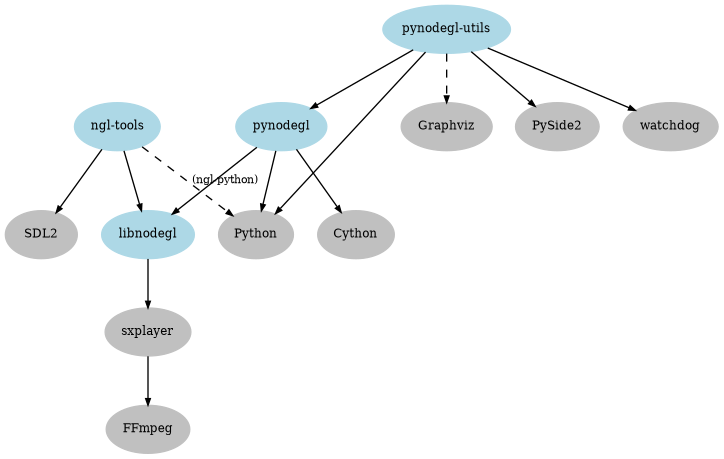
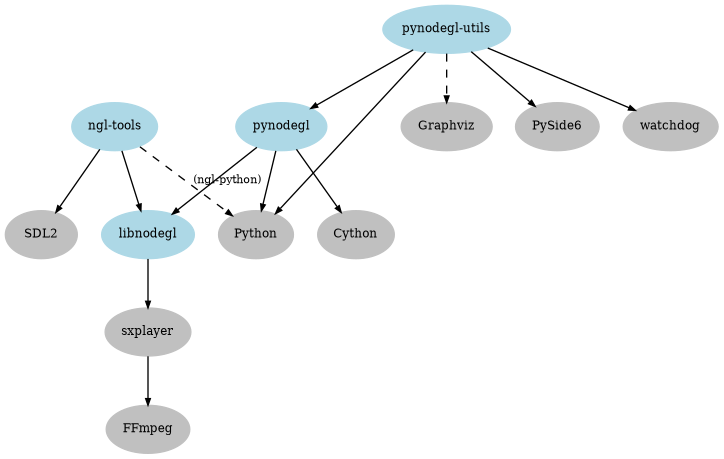
utils: port to PySide6

diff --git a/pynodegl-utils/pynodegl_utils/ui/graph_view.py b/pynodegl-utils/pynodegl_utils/ui/graph_view.py
@@ -21,7 +21,7 @@
 
 import os.path as op
 import subprocess
-from PySide2 import QtCore, QtGui, QtWidgets, QtSvg
+from PySide6 import QtCore, QtGui, QtWidgets, QtSvgWidgets
 
 from .seekbar import Seekbar
 
@@ -200,7 +200,7 @@ class GraphView(QtWidgets.QWidget):
                                            QtWidgets.QMessageBox.Ok)
             return
 
-        item = QtSvg.QGraphicsSvgItem(svgfile)
+        item = QtSvgWidgets.QGraphicsSvgItem(svgfile)
         self._scene.clear()
         self._scene.addItem(item)
         self._scene.setSceneRect(item.boundingRect())

diff --git a/configure.py b/configure.py
@@ -247,7 +247,7 @@ def _pynodegl_install(cfg):
 def _pynodegl_utils_deps_install(cfg):
     #
     # Requirements not installed on MinGW because:
-    # - PySide2 can't be pulled (required to be installed by the user outside the
+    # - PySide6 can't be pulled (required to be installed by the user outside the
     #   Python virtual env)
     # - Pillow fails to find zlib (required to be installed by the user outside the
     #   Python virtual env)

diff --git a/pynodegl-utils/pynodegl_utils/export.py b/pynodegl-utils/pynodegl_utils/export.py
@@ -24,7 +24,7 @@ import os.path as op
 import subprocess
 
 import pynodegl as ngl
-from PySide2 import QtGui, QtCore
+from PySide6 import QtGui, QtCore
 
 from pynodegl_utils.com import query_inplace
 from pynodegl_utils.misc import get_backend, get_viewport, get_nodegl_tempdir

diff --git a/pynodegl-utils/pynodegl_utils/scriptsmgr.py b/pynodegl-utils/pynodegl_utils/scriptsmgr.py
@@ -26,7 +26,7 @@ from threading import Timer
 from watchdog.observers import Observer
 from watchdog.events import FileSystemEventHandler
 
-from PySide2 import QtCore
+from PySide6 import QtCore
 
 from .com import query_inplace
 

diff --git a/pynodegl-utils/pynodegl_utils/ui/main_window.py b/pynodegl-utils/pynodegl_utils/ui/main_window.py
@@ -21,7 +21,7 @@
 
 import sys
 
-from PySide2 import QtCore, QtGui, QtWidgets
+from PySide6 import QtCore, QtGui, QtWidgets
 
 from pynodegl_utils.com import query_inplace
 from pynodegl_utils.config import Config

diff --git a/pynodegl-utils/pynodegl_utils/ui/export_view.py b/pynodegl-utils/pynodegl_utils/ui/export_view.py
@@ -19,7 +19,7 @@
 # under the License.
 #
 
-from PySide2 import QtCore, QtWidgets
+from PySide6 import QtCore, QtWidgets
 from fractions import Fraction
 
 from pynodegl_utils.export import Exporter

diff --git a/pynodegl-utils/pynodegl_utils/ui/seekbar.py b/pynodegl-utils/pynodegl_utils/ui/seekbar.py
@@ -21,7 +21,7 @@
 
 import math
 from fractions import Fraction
-from PySide2 import QtCore, QtGui, QtWidgets
+from PySide6 import QtCore, QtGui, QtWidgets
 
 
 class Seekbar(QtWidgets.QWidget):

diff --git a/pynodegl-utils/pynodegl_utils/control_widgets.py b/pynodegl-utils/pynodegl_utils/control_widgets.py
@@ -20,7 +20,7 @@
 #
 
 import os.path as op
-from PySide2 import QtCore, QtGui, QtWidgets
+from PySide6 import QtCore, QtGui, QtWidgets
 
 
 class _ControlWidget(QtWidgets.QWidget):

diff --git a/pynodegl-utils/pynodegl_utils/ui/medias_view.py b/pynodegl-utils/pynodegl_utils/ui/medias_view.py
@@ -21,7 +21,7 @@
 
 import os.path as op
 
-from PySide2 import QtCore, QtGui, QtWidgets
+from PySide6 import QtCore, QtGui, QtWidgets
 
 from pynodegl_utils.misc import Media
 

diff --git a/pynodegl-utils/pynodegl_utils/ui/serial_view.py b/pynodegl-utils/pynodegl_utils/ui/serial_view.py
@@ -19,7 +19,7 @@
 # under the License.
 #
 
-from PySide2 import QtCore, QtGui, QtWidgets
+from PySide6 import QtCore, QtGui, QtWidgets
 
 
 class SerialView(QtWidgets.QWidget):

diff --git a/pynodegl-utils/pynodegl_utils/hooks.py b/pynodegl-utils/pynodegl_utils/hooks.py
@@ -25,7 +25,7 @@ import os.path as op
 import tempfile
 import time
 
-from PySide2 import QtCore
+from PySide6 import QtCore
 
 from pynodegl_utils.module import load_script
 

diff --git a/pynodegl-utils/pynodegl_utils/ui/hooks_view.py b/pynodegl-utils/pynodegl_utils/ui/hooks_view.py
@@ -20,7 +20,7 @@
 #
 
 import subprocess
-from PySide2 import QtCore, QtGui, QtWidgets
+from PySide6 import QtCore, QtGui, QtWidgets
 
 
 class _SpawnView(QtWidgets.QGroupBox):
